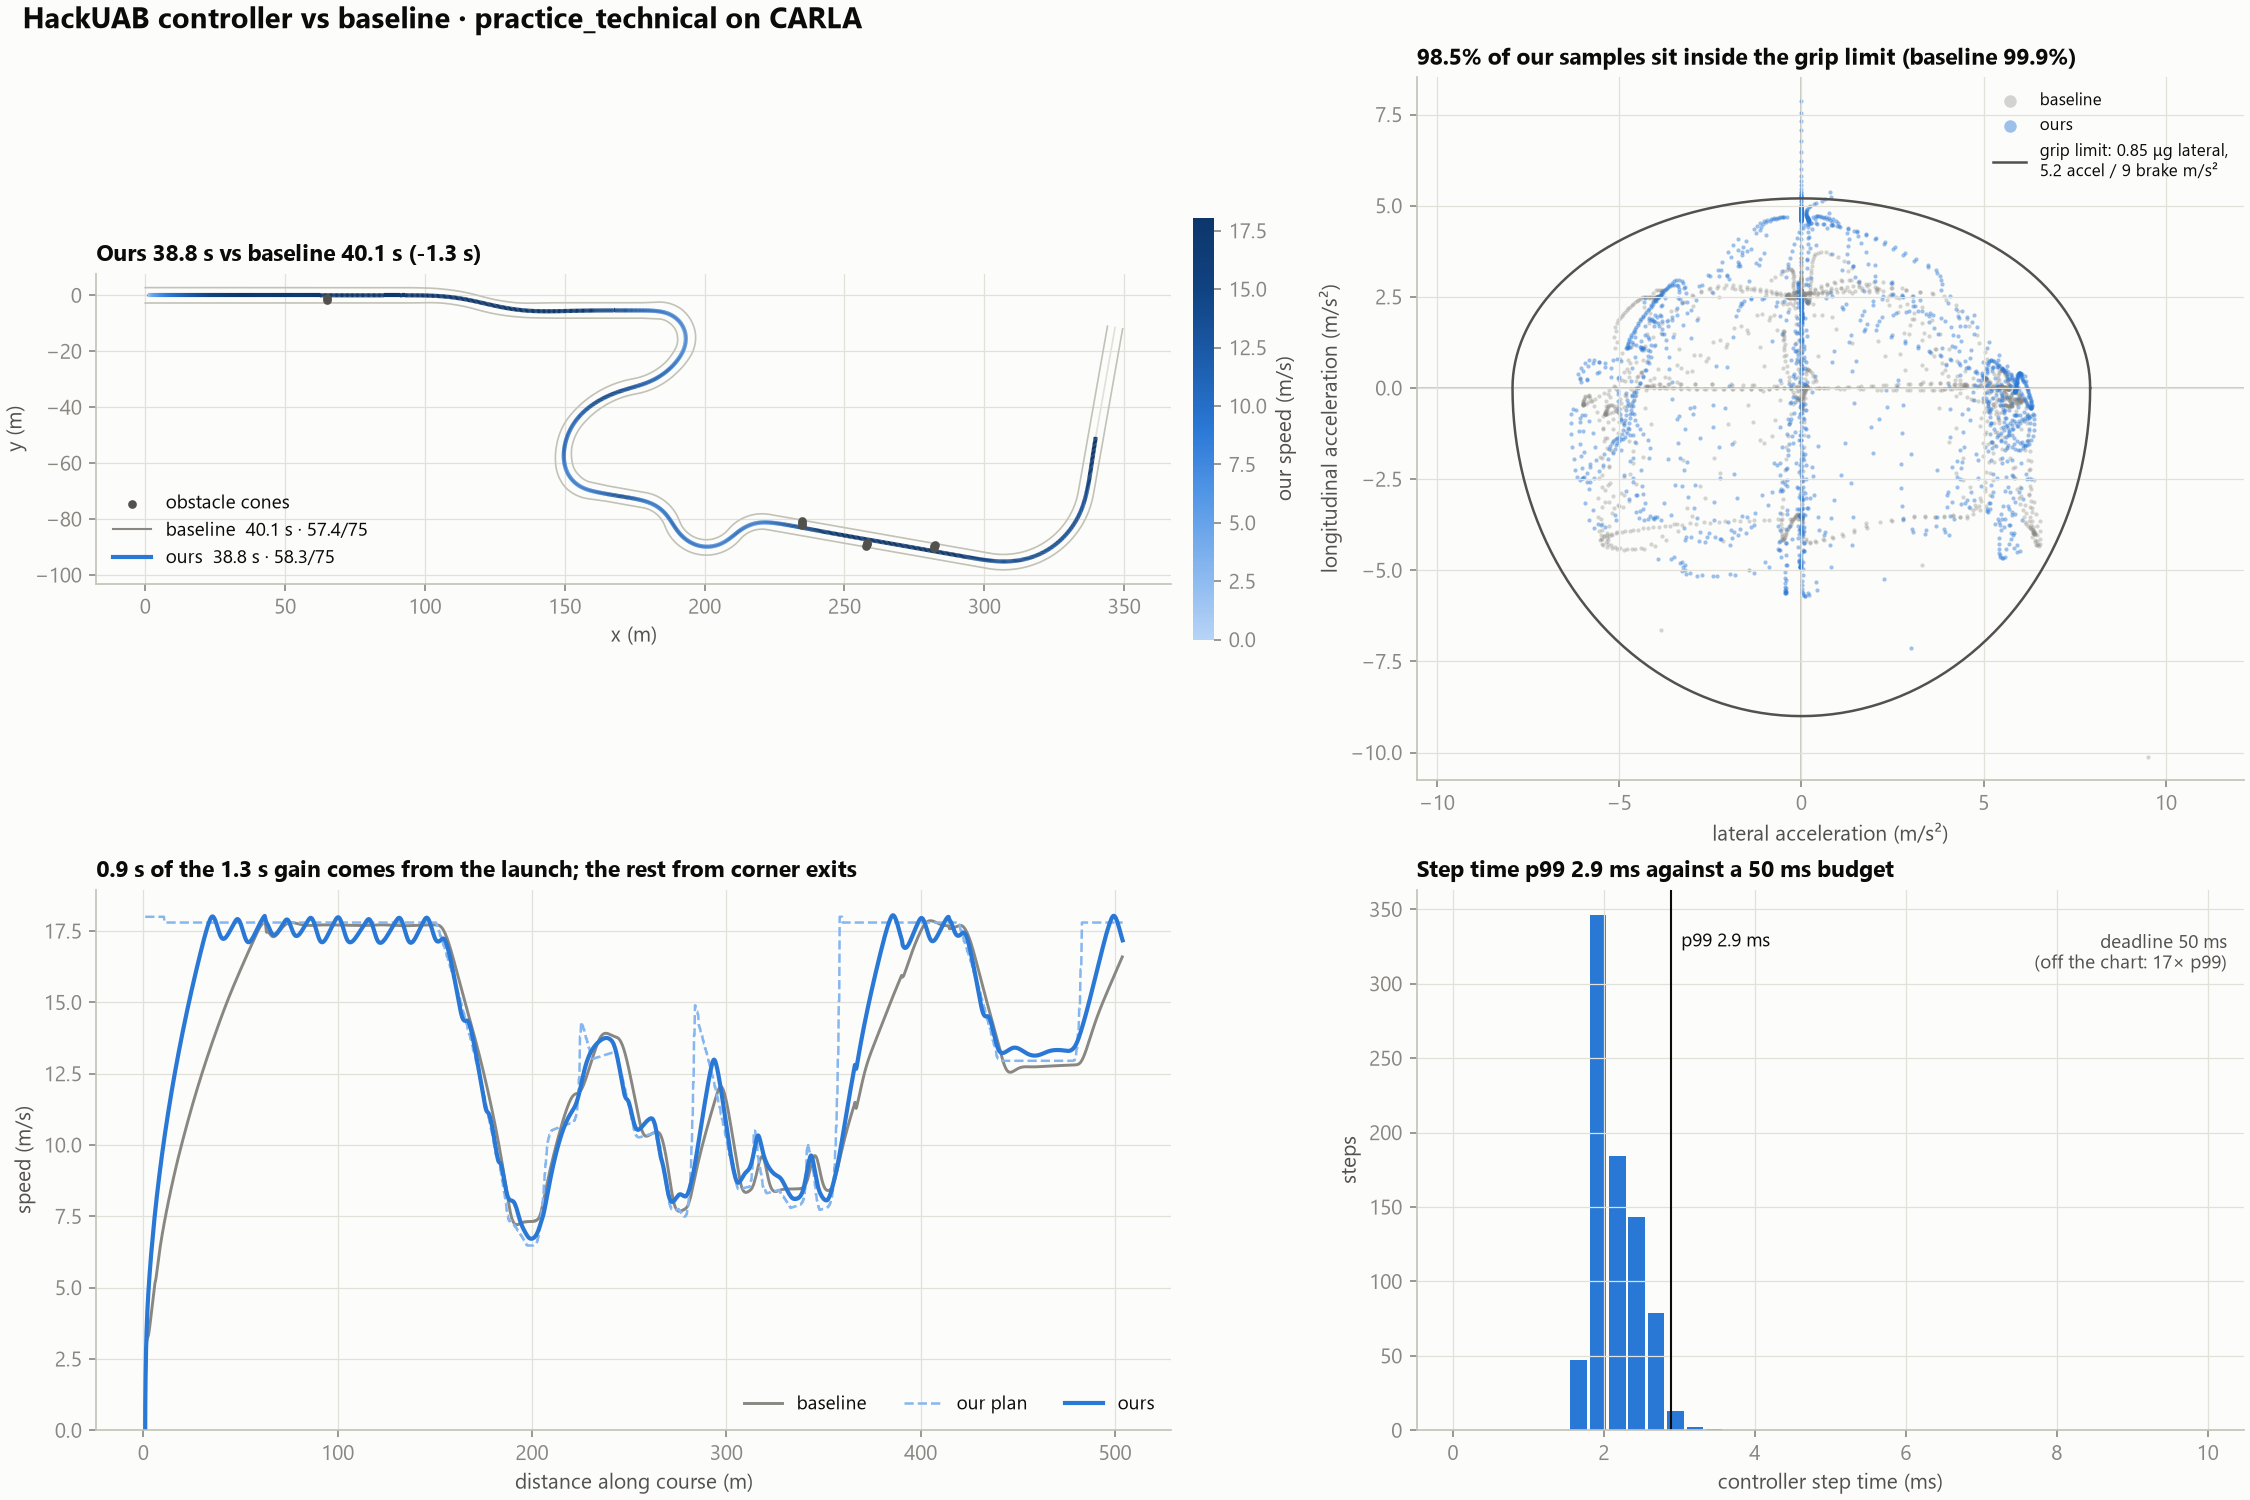
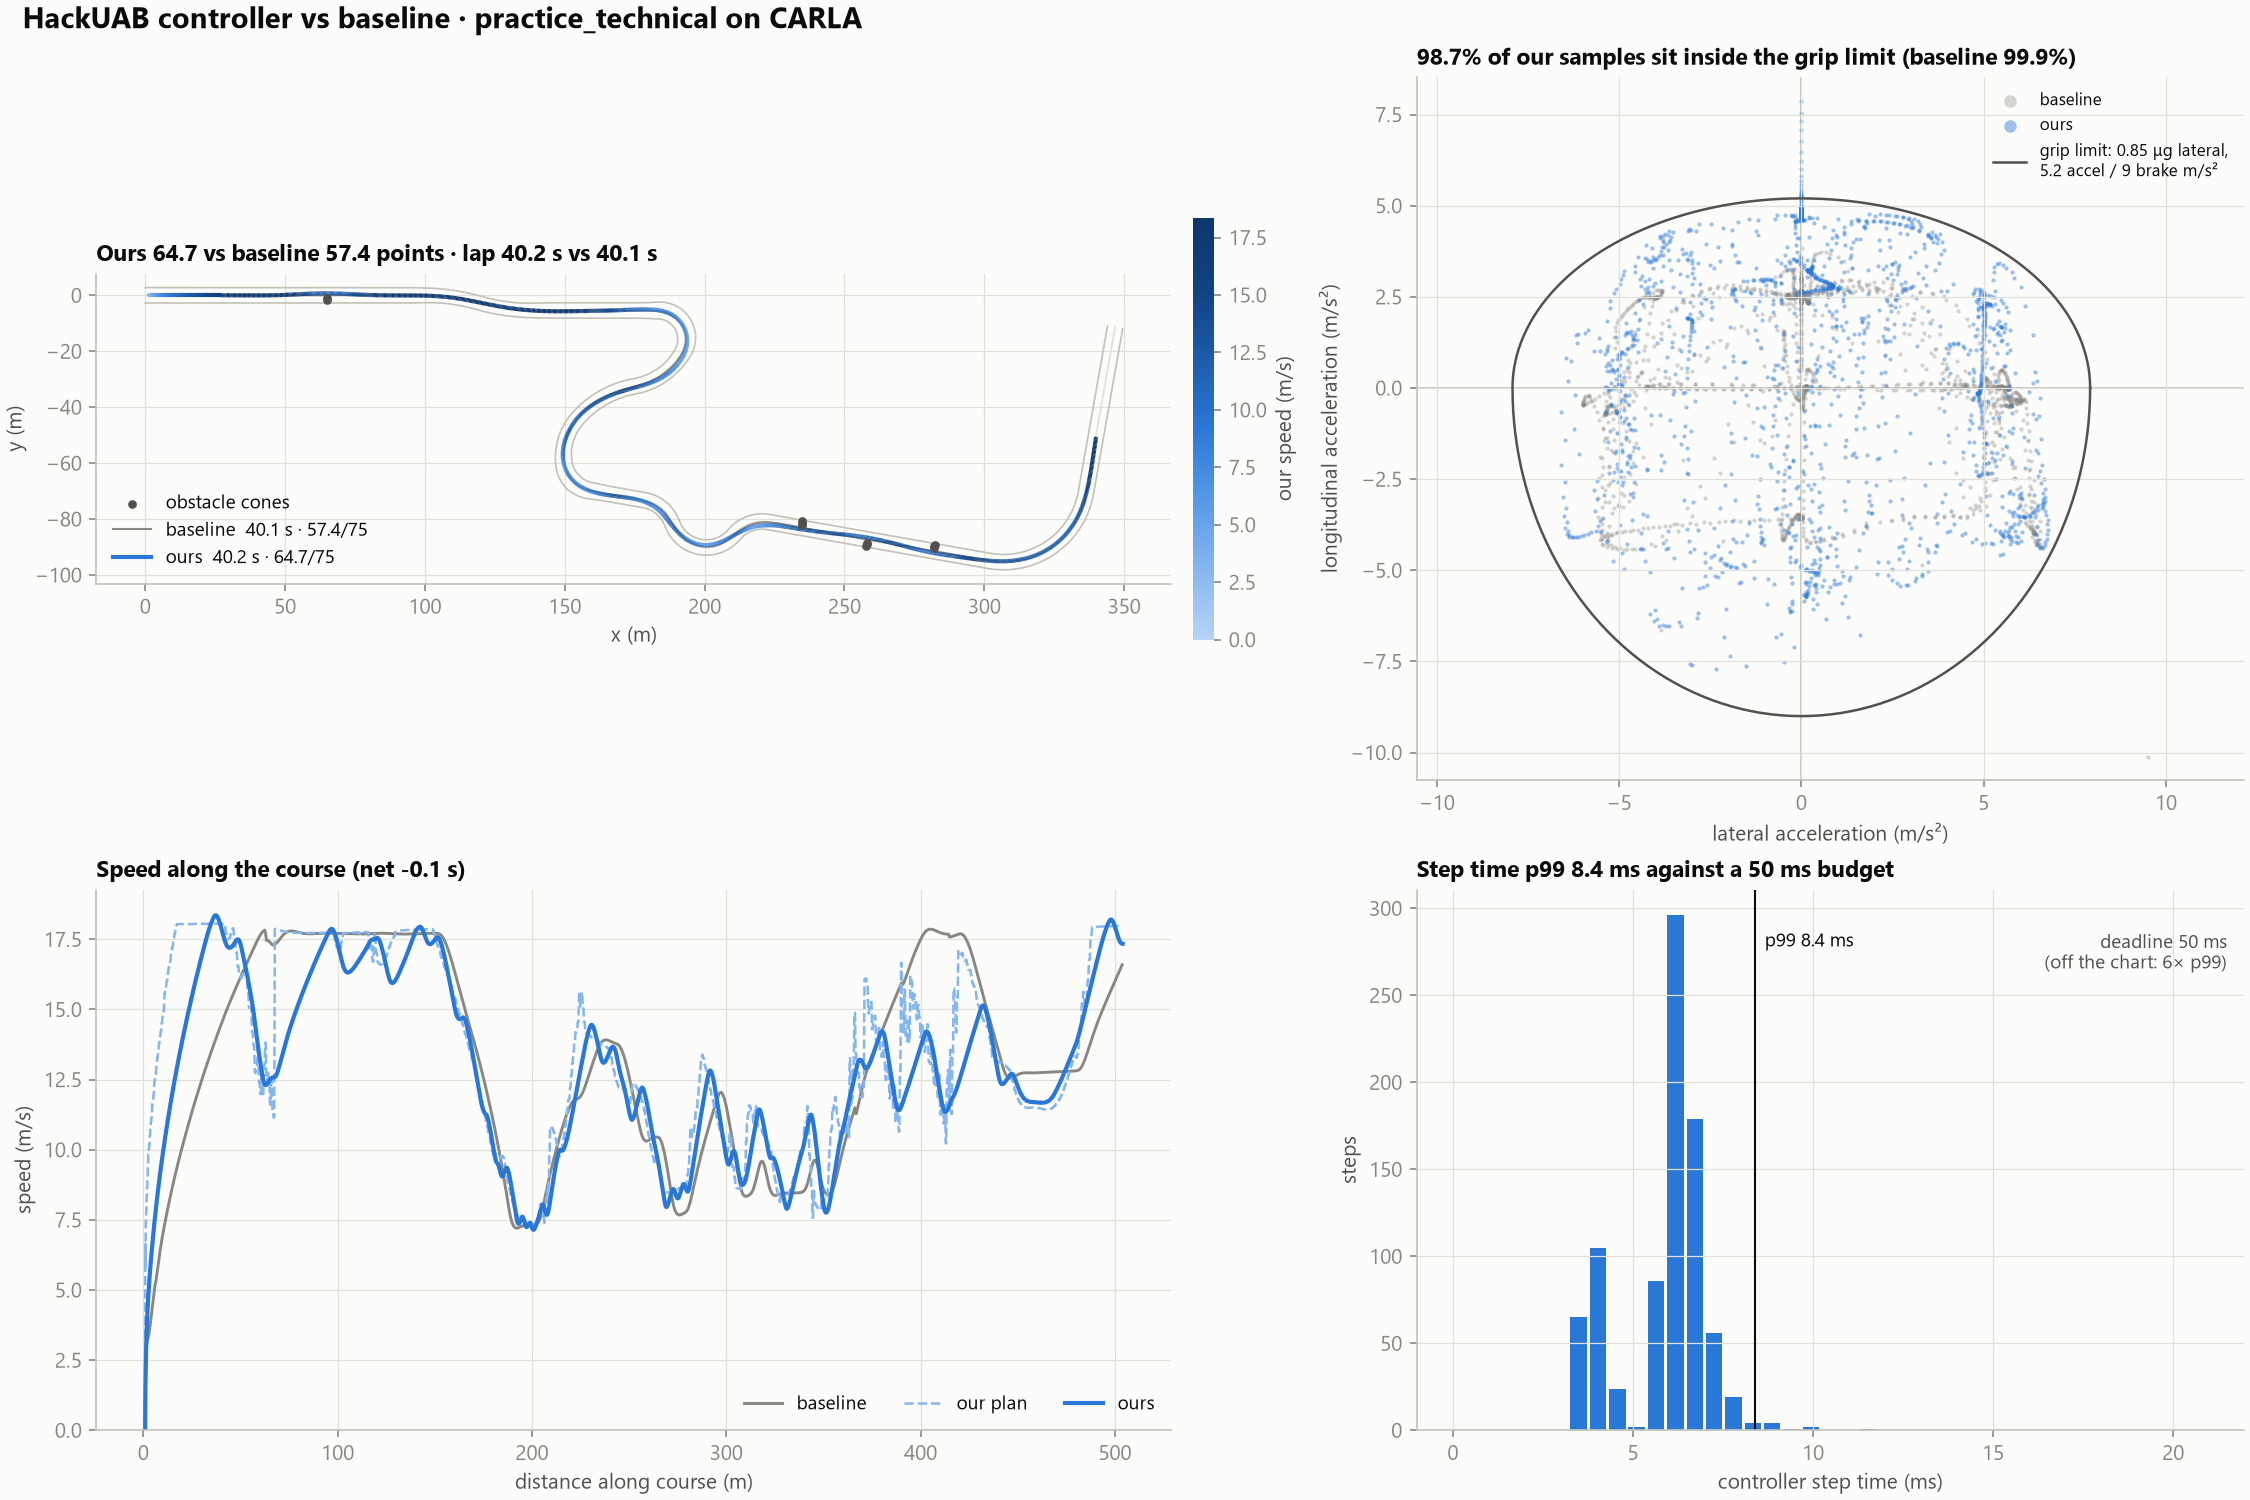
Re-render demo figures from the full pipeline (real horizon + racing line); points in map title

diff --git a/tools/plot_run.py b/tools/plot_run.py
@@ -162,8 +162,9 @@ def main():
     name = (track.name if track else os.path.basename(a.ours)) + "_" + s_o["backend"]
     t_o, t_b = s_o["metrics"]["completion"]["time_s"], s_b["metrics"]["completion"]["time_s"]
     where = f"{track.name if track else ''} on {s_o['backend'].upper() if s_o['backend'] == 'carla' else 'the bicycle model'}"
-    map_title = (f"Ours {t_o:.1f} s vs baseline {t_b:.1f} s ({t_o - t_b:+.1f} s)" if (t_o and t_b)
-                 else "Driven line, coloured by our speed")
+    pts_o, pts_b = s_o["score"]["technical_points"], s_b["score"]["technical_points"]
+    map_title = (f"Ours {pts_o:.1f} vs baseline {pts_b:.1f} points · lap {t_o:.1f} s vs {t_b:.1f} s"
+                 if (t_o and t_b) else "Driven line, coloured by our speed")
     start, end = (track.start_offset, track.start_offset + track.length * track.laps) if track else (0.0, 1e9)
     g_launch, g_total = launch_split(d_o, d_b, start, end)
     speed_title = (f"{g_launch:.1f} s of the {g_total:.1f} s gain comes from the launch; the rest from corner exits"
